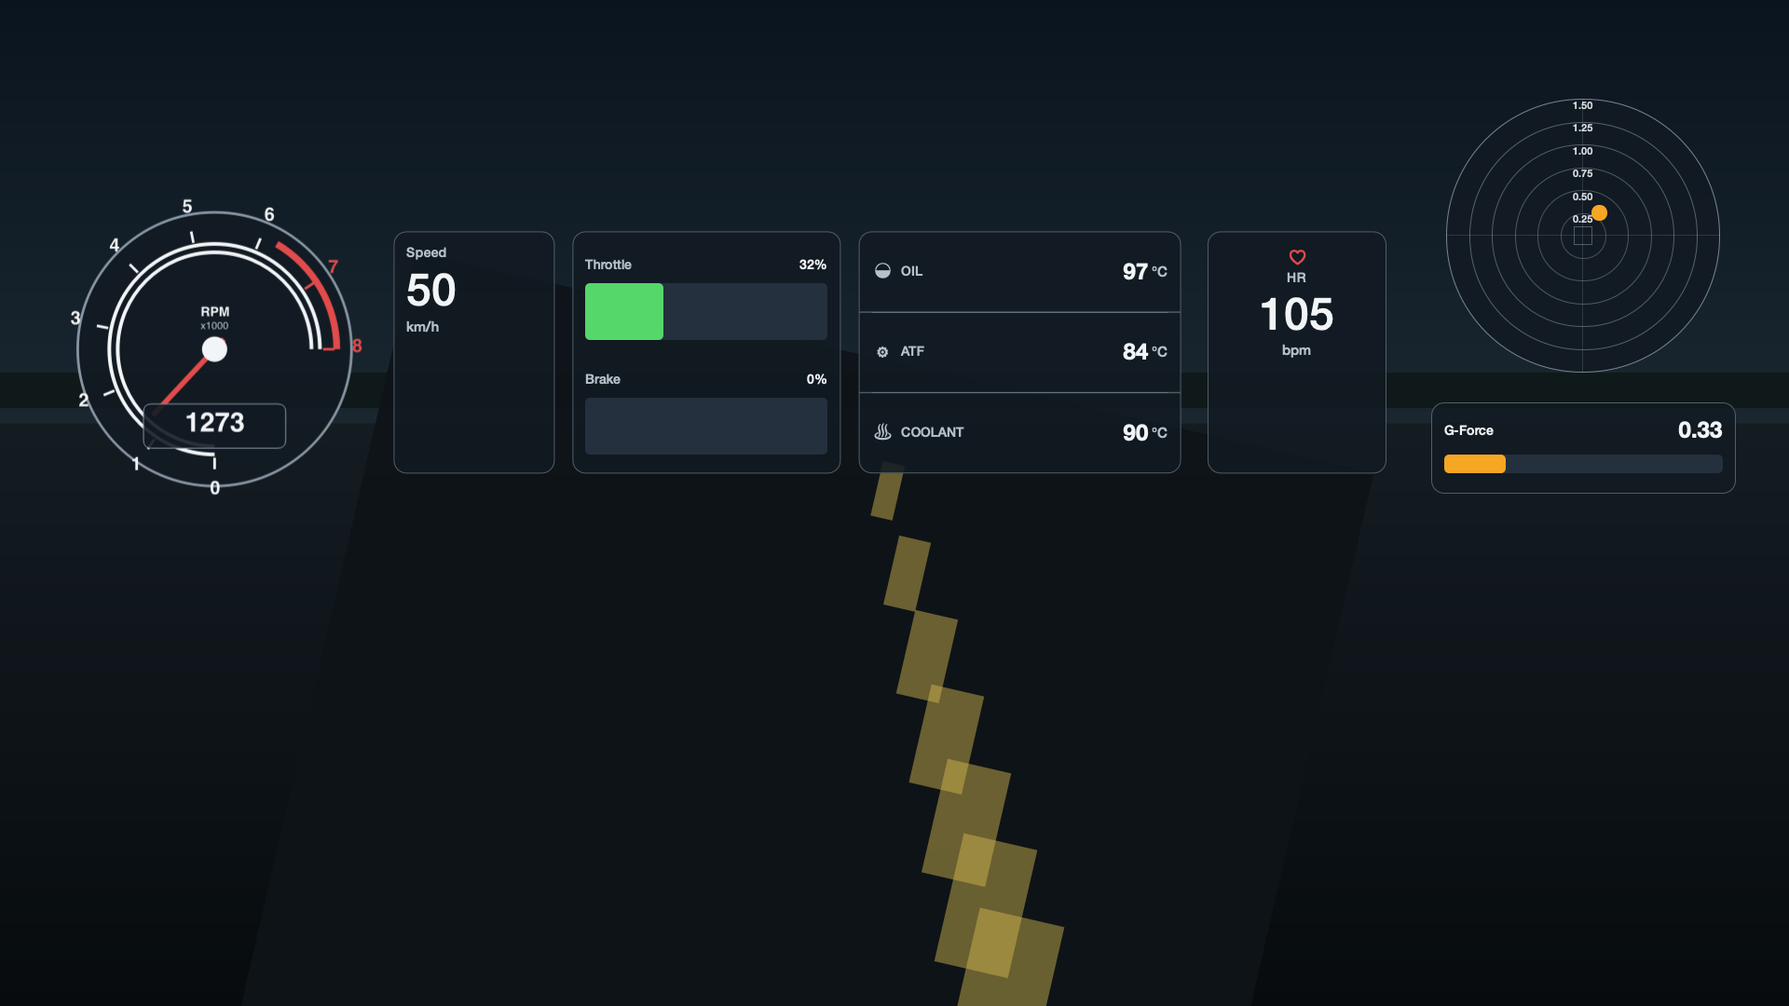
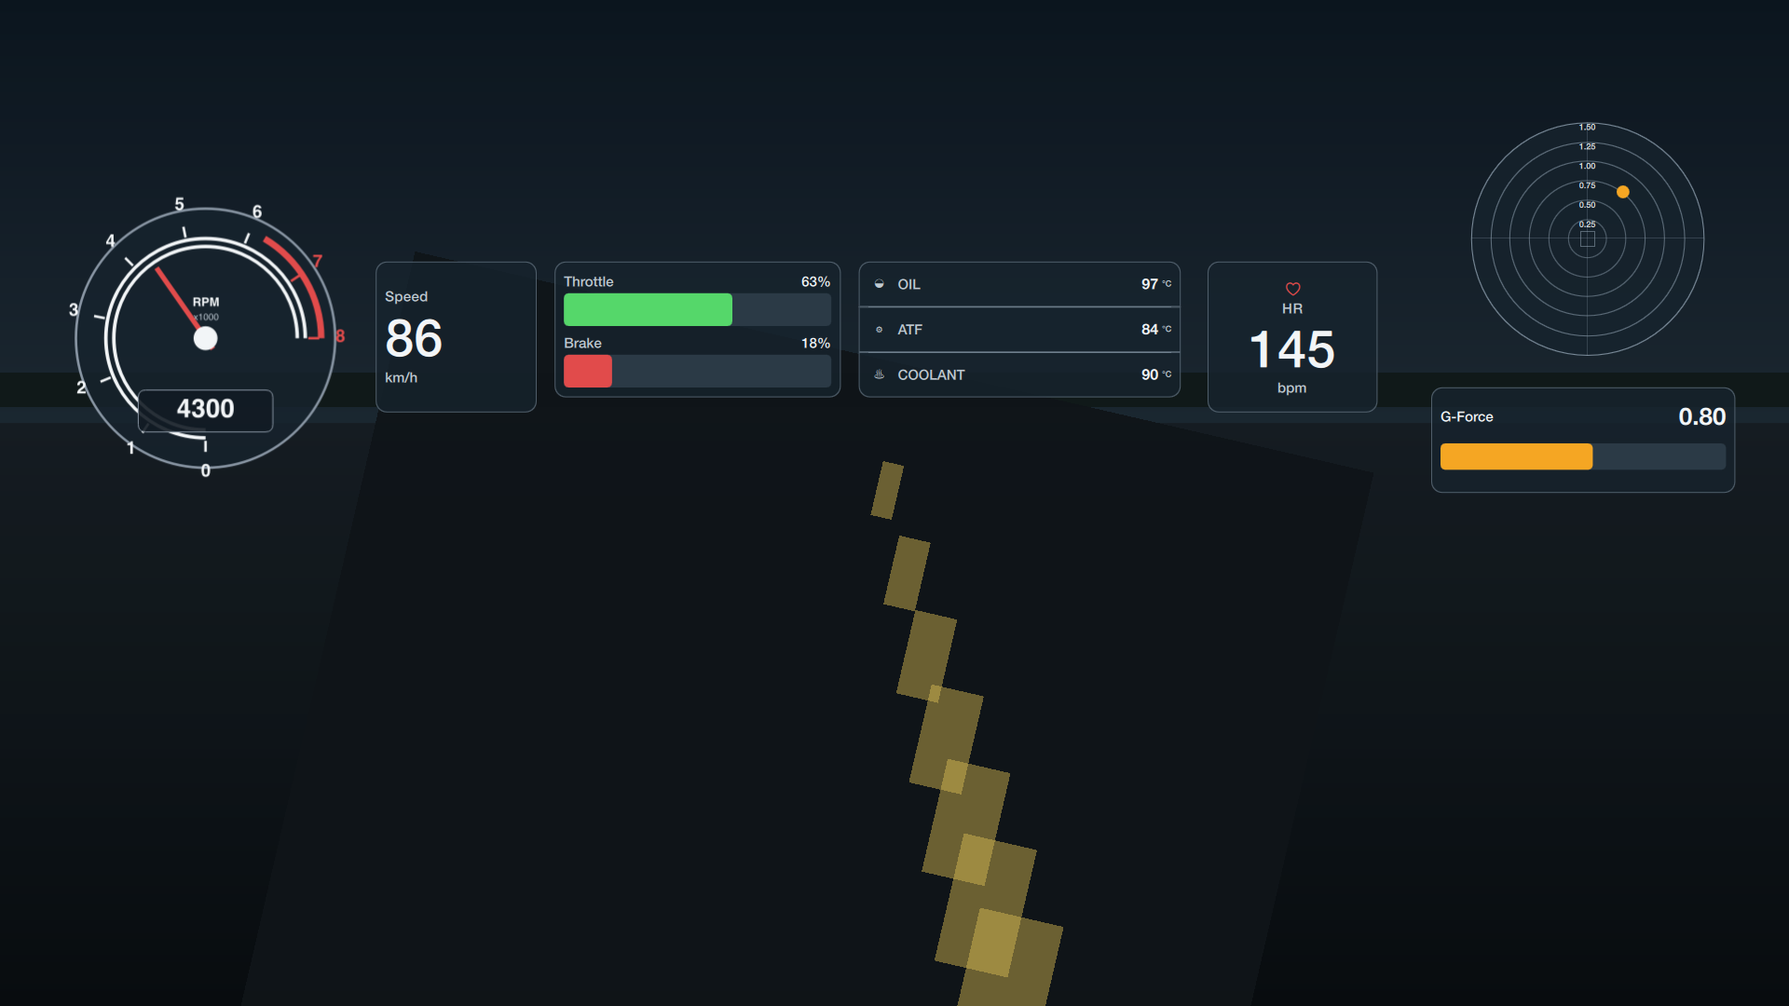
fix: refine broadcast widget proportions

diff --git a/native/qml/VisualSmokeScene.qml b/native/qml/VisualSmokeScene.qml
@@ -77,16 +77,16 @@ Item {
         property real time: 0
         function telemetryValue(source) {
             const samples = {
-                "speed": 50,
-                "rpm": 1273,
-                "throttle": 32,
-                "brake": 0,
+                "speed": 86,
+                "rpm": 4300,
+                "throttle": 63,
+                "brake": 18,
                 "oil": 97,
                 "atf": 84,
                 "coolant": 90,
-                "heartRate": 105,
-                "lateralG": 0.18,
-                "longitudinalG": 0.276
+                "heartRate": 145,
+                "lateralG": 0.48,
+                "longitudinalG": 0.64
             };
             return samples[source];
         }
@@ -94,10 +94,10 @@ Item {
 
     Component.onCompleted: {
             const common = {
-                "backgroundColor": "#111a22", "backgroundOpacity": 0.86,
-                "borderColor": "#8895a3", "borderOpacity": 0.55,
-                "cornerRadius": 14, "padding": 14,
-                "textColor": "#f2f5f7", "secondaryTextColor": "#b5c0ca"
+                "backgroundColor": "#16232d", "backgroundOpacity": 0.78,
+                "borderColor": "#96a8b8", "borderOpacity": 0.45,
+                "cornerRadius": 12, "padding": 10,
+                "textColor": "#f2f5f7", "secondaryTextColor": "#c0cad2"
             };
             const add = function(type, x, y, width, height, settings) {
                 smokeWidgets.append({
@@ -109,45 +109,45 @@ Item {
                     "widgetCues": [], "widgetGroupId": ""
                 });
             };
-            add("retroTachometer", 0.025, 0.16, 0.19, 0.36, {
+            add("retroTachometer", 0.025, 0.17, 0.18, 0.32, {
                 "showBackground": false, "showBorder": false, "padding": 0,
                 "source": "rpm", "label": "RPM", "minValue": 0, "maxValue": 8000,
-                "panelColor": "#111a22", "panelOpacity": 0.86, "dialColor": "#f2f5f7",
+                "panelColor": "#16232d", "panelOpacity": 0.78, "dialColor": "#f2f5f7",
                 "needleColor": "#e14b4b", "warningColor": "#e14b4b", "rimColor": "#8895a3"
             });
-            add("speed", 0.22, 0.23, 0.09, 0.24, Object.assign({}, common, {
+            add("speed", 0.21, 0.26, 0.09, 0.15, Object.assign({}, common, {
                 "source": "speed", "label": "Speed", "unit": "km/h", "decimals": 0
             }));
-            add("pedals", 0.32, 0.23, 0.15, 0.24, Object.assign({}, common, {
+            add("pedals", 0.31, 0.26, 0.16, 0.135, Object.assign({}, common, {
                 "acceleratorSource": "throttle", "brakeSource": "brake",
                 "acceleratorLabel": "Throttle", "brakeLabel": "Brake",
                 "acceleratorColor": "#55d76a", "brakeColor": "#e14b4b", "showValues": true
             }));
-            add("retroCustomValue", 0.48, 0.23, 0.18, 0.08, Object.assign({}, common, {
+            add("retroCustomValue", 0.48, 0.26, 0.18, 0.045, Object.assign({}, common, {
                 "source": "oil", "label": "OIL", "unit": "°C", "decimals": 0,
                 "icon": "◒", "stackPosition": "top"
             }));
-            add("retroCustomValue", 0.48, 0.31, 0.18, 0.08, Object.assign({}, common, {
+            add("retroCustomValue", 0.48, 0.305, 0.18, 0.045, Object.assign({}, common, {
                 "source": "atf", "label": "ATF", "unit": "°C", "decimals": 0,
                 "icon": "⚙", "stackPosition": "middle"
             }));
-            add("retroCustomValue", 0.48, 0.39, 0.18, 0.08, Object.assign({}, common, {
+            add("retroCustomValue", 0.48, 0.35, 0.18, 0.045, Object.assign({}, common, {
                 "source": "coolant", "label": "COOLANT", "unit": "°C", "decimals": 0,
                 "icon": "♨", "stackPosition": "bottom"
             }));
-            add("heartRate", 0.675, 0.23, 0.10, 0.24, Object.assign({}, common, {
+            add("heartRate", 0.675, 0.26, 0.095, 0.15, Object.assign({}, common, {
                 "source": "heartRate", "label": "HR", "unit": "bpm", "accentColor": "#e14b4b"
             }));
-            add("f1GForceRadar", 0.80, 0.08, 0.17, 0.31, {
+            add("f1GForceRadar", 0.815, 0.105, 0.145, 0.265, {
                 "showBackground": false, "showBorder": false, "padding": 0,
                 "lateralSource": "lateralG", "longitudinalSource": "longitudinalG",
-                "maxG": 1.5, "ringStepG": 0.25, "radarBackgroundColor": "#111a22",
-                "backgroundOpacity": 0.86, "dotColor": "#f5a623", "gridColor": "#8895a3"
+                "maxG": 1.5, "ringStepG": 0.25, "radarBackgroundColor": "#16232d",
+                "backgroundOpacity": 0.78, "dotColor": "#f5a623", "gridColor": "#96a8b8"
             });
-            add("gForceMagnitudeBar", 0.80, 0.40, 0.17, 0.09, Object.assign({}, common, {
+            add("gForceMagnitudeBar", 0.80, 0.385, 0.17, 0.105, Object.assign({}, common, {
                 "lateralSource": "lateralG", "longitudinalSource": "longitudinalG",
                 "maxG": 1.5, "labelText": "G-Force", "decimals": 2,
-                "barColor": "#f5a623", "barBackgroundColor": "#24303d"
+                "barColor": "#f5a623", "barBackgroundColor": "#2b3a46"
             }));
     }
 }

diff --git a/native/qml/TelemetryScene.qml b/native/qml/TelemetryScene.qml
@@ -79,21 +79,23 @@ Item {
             property real cueScale: activeCue && activeCue.cue.effect === "pop" ? 0.86 + 0.14 * (activeCue.fadeIn > 0 ? Math.min(1, activeCue.elapsed / activeCue.fadeIn) : 1) : 1
             property real cueYOffset: activeCue && activeCue.cue.effect === "slideUp" ? height * 0.14 * (1 - (activeCue.fadeIn > 0 ? Math.min(1, activeCue.elapsed / activeCue.fadeIn) : 1)) : 0
 
-            property real pad: Number(widgetSettings.padding ?? 12) * sceneScale
+            // Modern broadcast panels are deliberately dense: padding is a
+            // framing detail, not unused dashboard-card real estate.
+            property real pad: Number(widgetSettings.padding ?? 10) * sceneScale
             property string family: widgetSettings.fontFamily || "Helvetica Neue"
             property int weight: Number(widgetSettings.fontWeight ?? 600)
             // Shared modern-motorsport broadcast HUD palette. Individual widgets use
             // these semantic tokens rather than inventing their own panel treatment.
-            property color panel: widgetSettings.backgroundColor || "#111a22"
+            property color panel: widgetSettings.backgroundColor || "#16232d"
             property color primary: widgetSettings.textColor || "#f2f5f7"
-            property color secondary: widgetSettings.secondaryTextColor || "#b5c0ca"
+            property color secondary: widgetSettings.secondaryTextColor || "#c0cad2"
             property color accent: widgetSettings.accentColor || "#55d76a"
             property color throttle: widgetSettings.acceleratorColor || "#55d76a"
             property color brake: widgetSettings.brakeColor || "#e14b4b"
             property color gForceAccent: widgetSettings.barColor || "#f5a623"
-            property color neutralTrack: widgetSettings.barBackgroundColor || "#24303d"
-            property color panelBorder: widgetSettings.borderColor || "#8895a3"
-            property real panelRadius: Number(widgetSettings.cornerRadius ?? 14) * sceneScale
+            property color neutralTrack: widgetSettings.barBackgroundColor || "#2b3a46"
+            property color panelBorder: widgetSettings.borderColor || "#96a8b8"
+            property real panelRadius: Number(widgetSettings.cornerRadius ?? 12) * sceneScale
             property real valueScale: Number(widgetSettings.valueFontScale ?? 1)
             property real labelScale: Number(widgetSettings.labelFontScale ?? 1)
             // These renderers own their surfaces through TelemetryPanel.qml.
@@ -137,7 +139,7 @@ Item {
                 visible: !widgetItem.rendererOwnsPanel && (widgetItem.widgetSettings.showBackground ?? true)
                 radius: widgetItem.panelRadius
                 color: widgetItem.panel
-                opacity: Number(widgetItem.widgetSettings.backgroundOpacity ?? 0.86)
+                opacity: Number(widgetItem.widgetSettings.backgroundOpacity ?? 0.78)
             }
             Rectangle {
                 anchors.fill: parent
@@ -146,7 +148,7 @@ Item {
                 color: "transparent"
                 border.width: Number(widgetItem.widgetSettings.borderWidth ?? 1) * widgetItem.sceneScale
                 border.color: widgetItem.panelBorder
-                opacity: Number(widgetItem.widgetSettings.borderOpacity ?? 0.55)
+                opacity: Number(widgetItem.widgetSettings.borderOpacity ?? 0.45)
             }
 
             Label {

diff --git a/native/qml/widgets/TelemetryPanel.qml b/native/qml/widgets/TelemetryPanel.qml
@@ -6,27 +6,27 @@ Item {
     id: root
 
     property var frame: null
-    property color panelColor: frame ? frame.panel : "#111a22"
-    property color panelBorder: frame ? frame.panelBorder : "#8895a3"
+    property color panelColor: frame ? frame.panel : "#16232d"
+    property color panelBorder: frame ? frame.panelBorder : "#96a8b8"
     property color accentColor: frame ? frame.accent : "transparent"
     property bool showAccent: false
     property bool showBackground: frame ? (frame.widgetSettings.showBackground ?? true) : true
     property bool showBorder: frame ? (frame.widgetSettings.showBorder ?? true) : true
-    property real backgroundOpacity: frame ? Number(frame.widgetSettings.backgroundOpacity ?? 0.86) : 0.86
-    property real borderOpacity: frame ? Number(frame.widgetSettings.borderOpacity ?? 0.55) : 0.55
+    property real backgroundOpacity: frame ? Number(frame.widgetSettings.backgroundOpacity ?? 0.78) : 0.78
+    property real borderOpacity: frame ? Number(frame.widgetSettings.borderOpacity ?? 0.45) : 0.45
     property real borderWidth: frame ? Number(frame.widgetSettings.borderWidth ?? 1) * frame.sceneScale : 1
-    property real cornerRadius: frame ? frame.panelRadius : 14
-    property real innerPadding: frame ? frame.pad : 12
+    property real cornerRadius: frame ? frame.panelRadius : 12
+    property real innerPadding: frame ? frame.pad : 10
     property string stackPosition: frame ? String(frame.widgetSettings.stackPosition ?? "single") : "single"
     readonly property bool squareTop: stackPosition === "middle" || stackPosition === "bottom"
     readonly property bool squareBottom: stackPosition === "middle" || stackPosition === "top"
 
     // Canonical scene-pixel typography roles. Explicit widget font-size
     // settings still take precedence in the renderers that support them.
-    readonly property real panelLabelSize: (frame ? 14 * frame.labelScale * frame.sceneScale : 14)
-    readonly property real panelValueSize: (frame ? 48 * frame.valueScale * frame.sceneScale : 48)
+    readonly property real panelLabelSize: (frame ? 15 * frame.labelScale * frame.sceneScale : 15)
+    readonly property real panelValueSize: (frame ? 56 * frame.valueScale * frame.sceneScale : 56)
     readonly property real panelUnitSize: (frame ? 15 * frame.labelScale * frame.sceneScale : 15)
-    readonly property real compactValueSize: (frame ? 24 * frame.valueScale * frame.sceneScale : 24)
+    readonly property real compactValueSize: (frame ? 26 * frame.valueScale * frame.sceneScale : 26)
 
     Rectangle {
         anchors.fill: parent

diff --git a/native/qml/widgets/PedalsWidget.qml b/native/qml/widgets/PedalsWidget.qml
@@ -13,7 +13,7 @@ Item {
     ColumnLayout {
         anchors.fill: parent
         anchors.margins: panel.innerPadding
-        spacing: Math.max(6 * frame.sceneScale, height * 0.06)
+        spacing: Math.max(5 * frame.sceneScale, height * 0.045)
         Repeater {
             model: [
             {
@@ -37,13 +37,13 @@ Item {
                 required property var modelData
                 Layout.fillWidth: true
                 Layout.fillHeight: true
-                spacing: 4 * frame.sceneScale
+                spacing: 3 * frame.sceneScale
                 property var pedalRaw: frame.raw(modelData.sourceKey, modelData.fallback)
                 property bool hasValue: pedalRaw !== undefined && pedalRaw !== null && Number.isFinite(Number(pedalRaw))
                 property real pedalValue: hasValue ? Number(pedalRaw) : 0
                 RowLayout {
                     Layout.fillWidth: true
-                    Layout.preferredHeight: Math.max(panel.panelLabelSize, parent.height * 0.34)
+                    Layout.preferredHeight: Math.max(panel.panelLabelSize * 1.12, parent.height * 0.38)
                     Label {
                         Layout.fillWidth: true
                         text: frame.widgetSettings[modelData.labelKey] || (modelData.fallback === "throttle" ? "Throttle" : "Brake")
@@ -63,7 +63,7 @@ Item {
                 }
                 Rectangle {
                     Layout.fillWidth: true
-                    Layout.preferredHeight: Math.max(10 * frame.sceneScale, parent.parent.height * 0.26)
+                    Layout.preferredHeight: Math.max(11 * frame.sceneScale, parent.parent.height * 0.28)
                     radius: Number(frame.widgetSettings.barRadius ?? 5) * frame.sceneScale
                     color: frame.neutralTrack
                     Rectangle {

diff --git a/native/qml/widgets/HeartRateWidget.qml b/native/qml/widgets/HeartRateWidget.qml
@@ -12,15 +12,18 @@ Item {
         accentColor: frame.widgetSettings.accentColor || frame.accent
     }
     Column {
-        anchors.fill: parent
-        anchors.margins: panel.innerPadding
-        spacing: 1 * frame.sceneScale
+        anchors.left: parent.left
+        anchors.right: parent.right
+        anchors.leftMargin: panel.innerPadding
+        anchors.rightMargin: panel.innerPadding
+        anchors.verticalCenter: parent.verticalCenter
+        spacing: 0
         Label {
             anchors.horizontalCenter: parent.horizontalCenter
         visible: frame.widgetSettings.showIcon ?? true
         text: "♡"
         color: frame.accent
-            font.pixelSize: Math.min(22 * frame.sceneScale, parent.height * 0.20)
+            font.pixelSize: Math.min(20 * frame.sceneScale, parent.height * 0.17)
         }
         Label {
             anchors.horizontalCenter: parent.horizontalCenter
@@ -39,7 +42,7 @@ Item {
         font.weight: frame.weight
         font.pixelSize: frame.configuredFontSize() > 0
             ? frame.configuredFontSize() * frame.sceneScale
-                : Math.max(26 * frame.sceneScale, Math.min(panel.panelValueSize, parent.height * 0.34))
+                : Math.max(32 * frame.sceneScale, Math.min(panel.panelValueSize, parent.height * 0.48))
         }
         Label {
             anchors.horizontalCenter: parent.horizontalCenter

diff --git a/native/qml/widgets/SpeedWidget.qml b/native/qml/widgets/SpeedWidget.qml
@@ -11,9 +11,12 @@ Item {
         frame: parent.frame
     }
     Column {
-        anchors.fill: parent
-        anchors.margins: panel.innerPadding
-        spacing: 2 * frame.sceneScale
+        anchors.left: parent.left
+        anchors.right: parent.right
+        anchors.leftMargin: panel.innerPadding
+        anchors.rightMargin: panel.innerPadding
+        anchors.verticalCenter: parent.verticalCenter
+        spacing: 1 * frame.sceneScale
         Label {
             text: frame.widgetSettings.label || "Speed"
             color: frame.secondary
@@ -30,7 +33,7 @@ Item {
             font.weight: frame.weight
             font.pixelSize: frame.configuredFontSize() > 0
                 ? frame.configuredFontSize() * frame.sceneScale
-                : Math.max(30 * frame.sceneScale, Math.min(panel.panelValueSize, parent.height * 0.56))
+                : Math.max(34 * frame.sceneScale, Math.min(panel.panelValueSize, parent.height * 0.62))
         }
         Label {
             visible: frame.widgetSettings.showUnit ?? true

diff --git a/native/qml/widgets/GForceMagnitudeBarWidget.qml b/native/qml/widgets/GForceMagnitudeBarWidget.qml
@@ -22,10 +22,10 @@ Item {
     Column {
         anchors.fill: parent
         anchors.margins: panel.innerPadding
-        spacing: Math.max(5 * root.frame.sceneScale, parent.height * 0.10)
+        spacing: Math.max(5 * root.frame.sceneScale, parent.height * 0.08)
         Row {
             width: parent.width
-            height: parent.height * 0.46
+            height: parent.height * 0.44
             Label {
                 width: parent.width * 0.62
                 anchors.verticalCenter: parent.verticalCenter
@@ -55,7 +55,7 @@ Item {
         }
         Rectangle {
             width: parent.width
-            height: Math.max(8 * root.frame.sceneScale, parent.parent.height * 0.20)
+            height: Math.max(11 * root.frame.sceneScale, parent.parent.height * 0.25)
             radius: Number(root.frame.widgetSettings.barRadius ?? 5) * root.frame.sceneScale
             color: root.frame.neutralTrack
             Rectangle {

diff --git a/native/tests/TelemetryTests.cpp b/native/tests/TelemetryTests.cpp
@@ -1425,10 +1425,10 @@ void TelemetryTests::providesGForceVariants()
     QVERIFY(radarDefaults.value("showRingLabels").toBool());
     QVERIFY(!radarDefaults.value("showBackground").toBool());
     QVERIFY(!radarDefaults.value("showBorder").toBool());
-    QCOMPARE(radarDefaults.value("radarBackgroundColor").toString(), QString("#111a22"));
-    QCOMPARE(radarDefaults.value("backgroundOpacity").toDouble(), 0.86);
+    QCOMPARE(radarDefaults.value("radarBackgroundColor").toString(), QString("#16232d"));
+    QCOMPARE(radarDefaults.value("backgroundOpacity").toDouble(), 0.78);
     QCOMPARE(radarDefaults.value("dotColor").toString(), QString("#f5a623"));
-    QCOMPARE(radarDefaults.value("gridColor").toString(), QString("#8895a3"));
+    QCOMPARE(radarDefaults.value("gridColor").toString(), QString("#96a8b8"));
     QCOMPARE(static_cast<int>(std::floor(radarDefaults.value("maxG").toDouble()
                                          / radarDefaults.value("ringStepG").toDouble())), 6);
     source.setSetting(radar, "maxG", std::numeric_limits<double>::infinity());

diff --git a/native/src/widgets/WidgetModel.cpp b/native/src/widgets/WidgetModel.cpp
@@ -56,8 +56,11 @@ const QStringList widgetTypes = {
 
 QPair<double, double> defaultSize(const QString &type)
 {
-    if (type == "rpm" || type == "heartRate") {
+    if (type == "rpm") {
         return {0.20, 0.09};
+    }
+    if (type == "heartRate") {
+        return {0.12, 0.13};
     }
     if (type == "pedals") {
         return {0.25, 0.13};
@@ -66,10 +69,10 @@ QPair<double, double> defaultSize(const QString &type)
         return {0.14, 0.19};
     }
     if (type == "f1GForceRadar") {
-        return {0.18, 0.24};
+        return {0.15, 0.20};
     }
     if (type == "gForceMagnitudeBar") {
-        return {0.24, 0.055};
+        return {0.24, 0.10};
     }
     if (type == "track") {
         return {0.20, 0.28};

diff --git a/docs/architecture.md b/docs/architecture.md
@@ -69,7 +69,7 @@ Custom templates are atomically persisted through the template store. Creating a
 
 The scene uses 1920×1080 as its canonical visual canvas. Normalized widget geometry is resolved directly against the target canvas, while pixel-like typography, padding, borders, lines, and markers use one scene scale. Canvases use widget-relative geometry; the retro Grand Prix renderer is the exception and retains its explicit 440×420 design-space transform, so it must not receive a second scene transform.
 
-The modern motorsport broadcast HUD uses `TelemetryPanel.qml` as its dark translucent panel family: `#111A22` at 86% opacity, a restrained `#8895A3` border, canonical 14 px radii, 14 px label / 48 px value / 15 px unit roles, near-white primary text, and muted `#B5C0CA` secondary text. Speed, pedals, Retro Custom values, Heart Rate, and the G-Force bar own this surface directly, so existing layouts immediately use the same visual system rather than a generic wrapper. Retro Custom values can opt into top/middle/bottom stack positions, subtle separators, and a small explicit icon while arbitrary standalone usage remains the default. Throttle is green, active brake is red, and G-Force is amber; a zero brake is represented solely by the neutral track. The analog Retro Tachometer remains circular with an integrated rounded dark RPM value plate and high-range accent, while the F1 radar remains an unboxed circular field with labeled 0.25 g rings through 1.50 g. `VisualSmokeScene.qml` is the deterministic compact composition review scene: it mounts these widgets over a bright roadway backdrop with sample-only data (1273 RPM, 50 km/h, 32% throttle, 0% brake, 97 °C oil, 84 °C ATF, 90 °C coolant, 105 bpm, 0.33 g), and the `motorsport-broadcast-smoke` template carries the same nine-widget layout for the editor and export scene. Local `--render-visual-smoke <png>` and `--render-visual-smoke-dark <png>` modes capture the production QML scene against bright and night-like backgrounds.
+The modern motorsport broadcast HUD uses `TelemetryPanel.qml` as its dark translucent panel family: `#16232D` at 78% opacity, a restrained `#96A8B8` border, compact 12 px radii, 15 px label / 56 px value / 15 px unit roles, near-white primary text, and muted `#C0CAD2` secondary text. Ten scene pixels of canonical padding keeps the cards dense without crowding their contents. Speed, pedals, Retro Custom values, Heart Rate, and the G-Force bar own this surface directly, so existing layouts immediately use the same visual system rather than a generic wrapper. Speed and Heart Rate are compact portrait cards; pedals and the three-row Retro Custom temperature stack share a short, medium-width module height; and the G-Force bar uses the same substantial panel family. Retro Custom values can opt into top/middle/bottom stack positions, subtle separators, and a small explicit icon while arbitrary standalone usage remains the default. Throttle is green, active brake is red, and G-Force is amber; a zero brake is represented solely by the neutral track. The analog Retro Tachometer remains circular with an integrated rounded dark RPM value plate and high-range accent, while the F1 radar remains an unboxed circular field with labeled 0.25 g rings through 1.50 g. `VisualSmokeScene.qml` is the deterministic compact composition review scene: it mounts these widgets over a bright roadway backdrop with sample-only data (4300 RPM, 86 km/h, 63% throttle, 18% brake, 97 °C oil, 84 °C ATF, 90 °C coolant, 145 bpm, 0.80 g), and the `motorsport-broadcast-smoke` template carries the same nine-widget layout for the editor and export scene. Local `--render-visual-smoke <png>` and `--render-visual-smoke-dark <png>` modes capture the production QML scene against bright and night-like backgrounds.
 
 Optional widget `fontSize` values are canonical canvas pixels: zero or an absent/invalid value uses the renderer's established automatic expression, and a positive finite value is multiplied by the scene scale. This preserves old scenes and keeps explicit value typography proportional between preview, 720p, 1080p, 4K, and larger exports.
 
